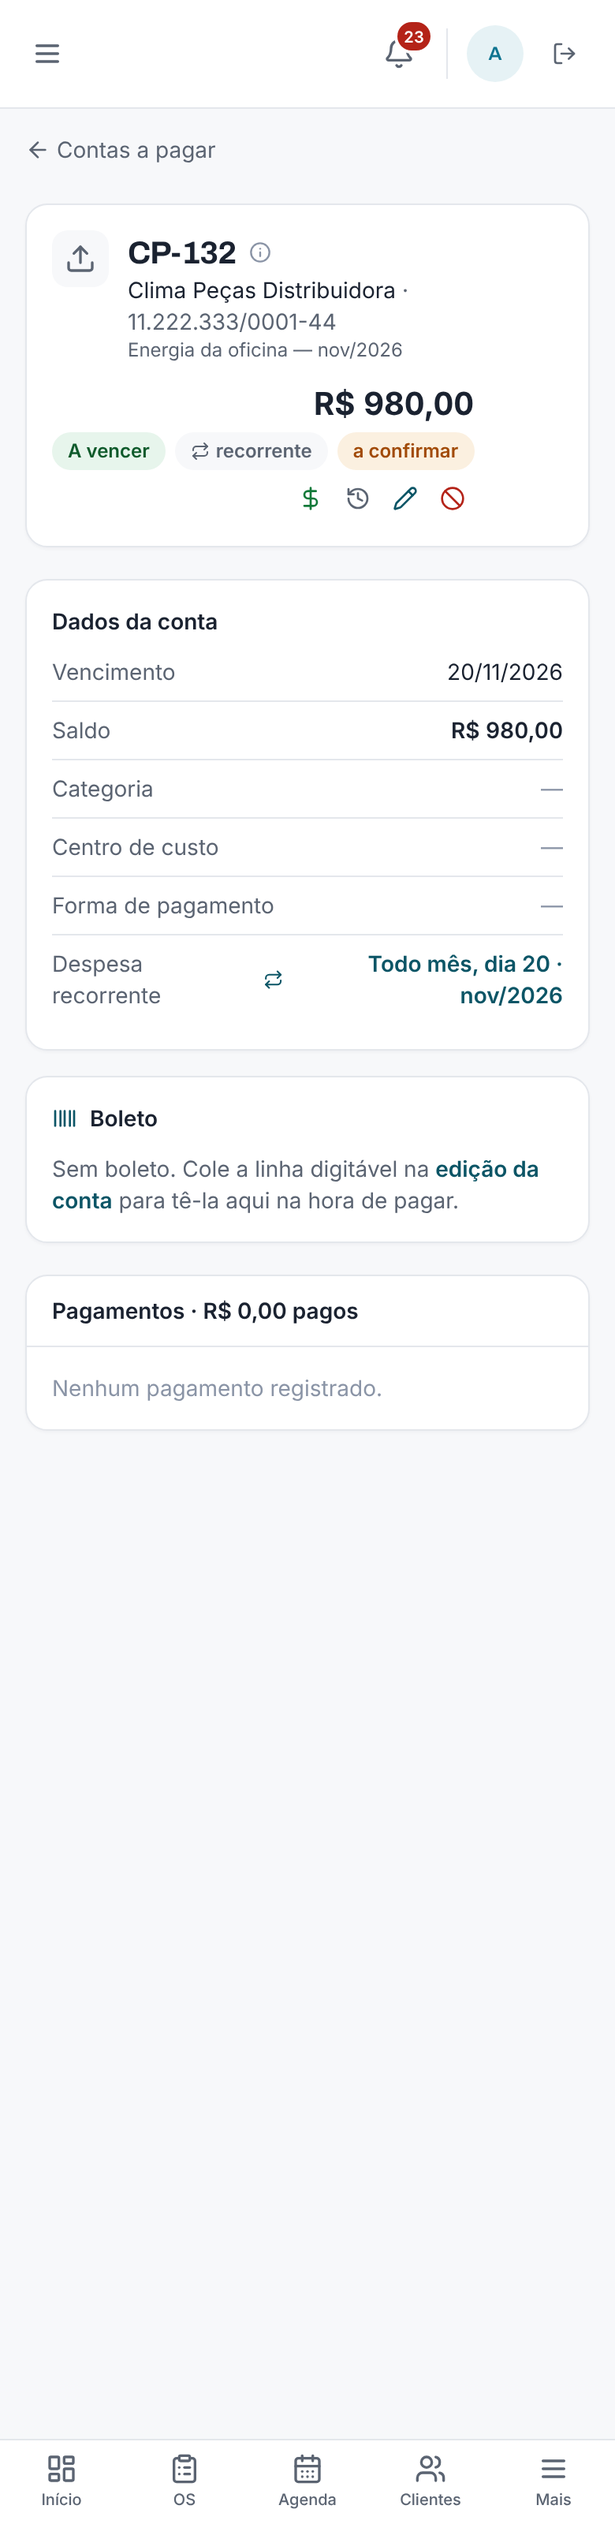
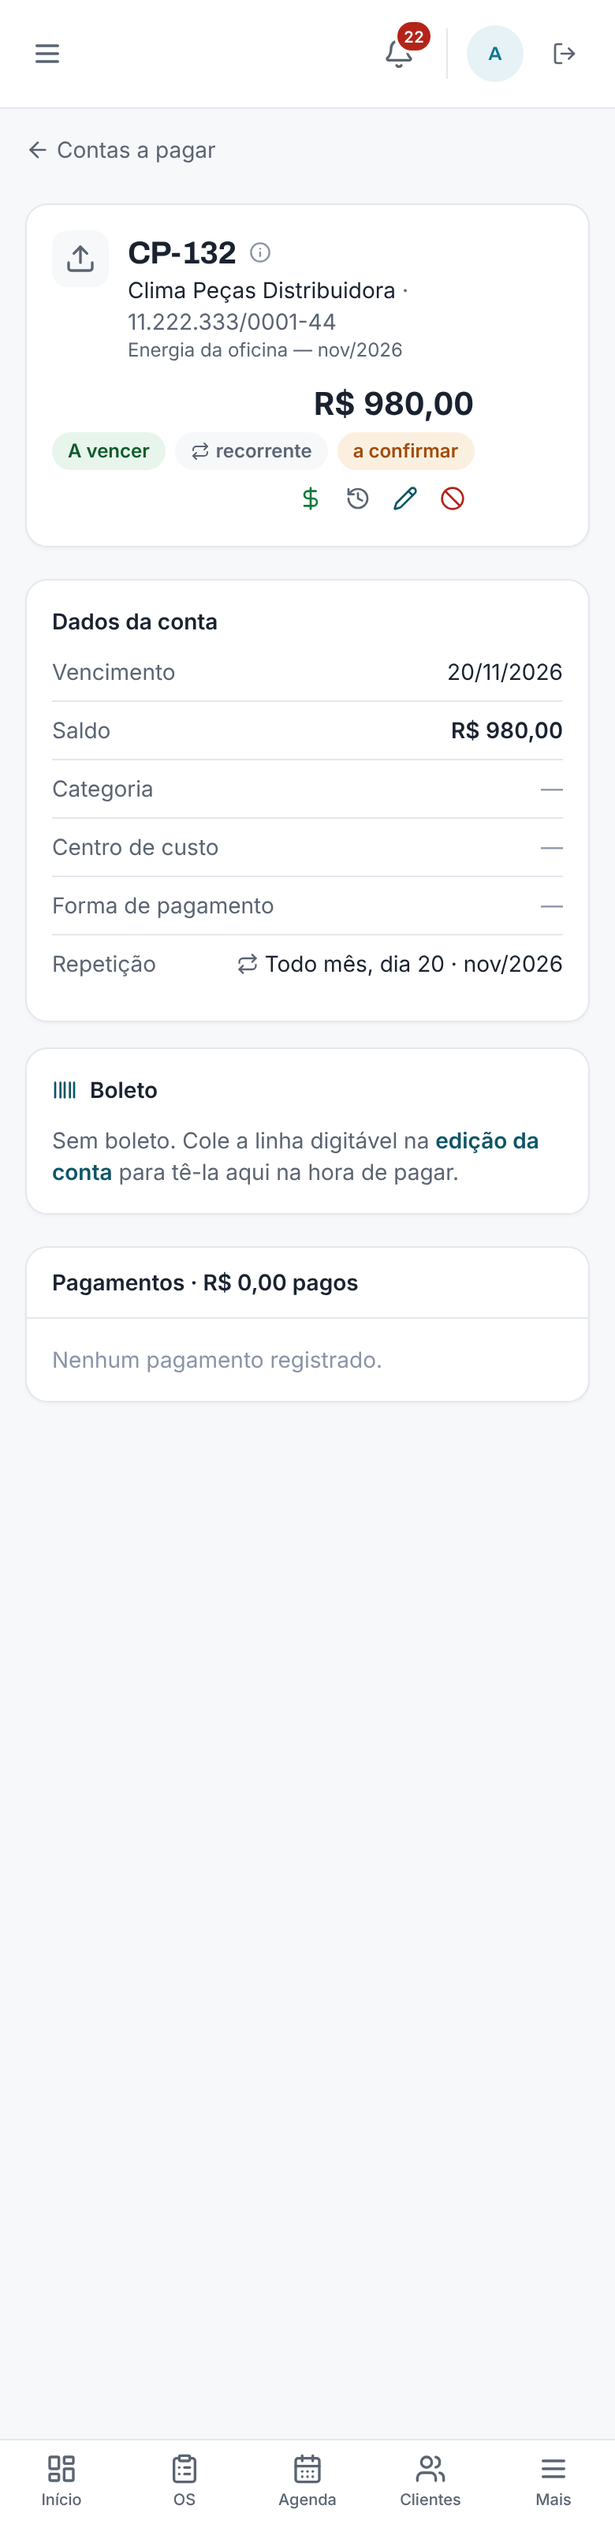
Recorrentes P2: prints, doc e os consertos que a rodada de mutacao achou
- a previa cortava no horizonte: uma regra de 24 ocorrencias mostrava 13. O teto da previa passa a ser o termino da propria regra (data ou numero) e so cai no horizonte rolante quando nao ha termino.

- seta unicode num comentario batia na guarda de emoji do design system (era a quebra do shard 2 do CI).

- podeMexer no menu da conta foi de 9 para 8 com a saida do atalho para a tela de regras (quebra do shard 3).

- teste novo: Cobrar sempre no e 1o vencimento sao a mesma verdade e andam juntos.

- prints refeitos para o desenho novo; os da tela de regras removida sairam.

Claude-Session: https://claude.ai/code/session_01NogQSnn1DhMU16avoGcmWJ

Changed region(s): [[0.0615, 0.375, 0.8923, 0.5625], [0.5538, 0.375, 0.9231, 0.4062], [0.4308, 0.375, 0.4923, 0.4062]]

diff --git a/tests/unit/padronizacao-leva8a.test.ts b/tests/unit/padronizacao-leva8a.test.ts
@@ -67,9 +67,9 @@ describe("prioridade 1: o que mexe em dinheiro só aparece para quem pode", () =
     expect(src).toContain('import { usePermissoes } from "@/components/providers/permissoes-provider";');
     expect(src).toContain('const podeMexer = usePermissoes().pode("financeiro", "fluxoCaixa");');
     // os itens do ⋮ e os botões da ficha, todos atrás da permissão: pagar, editar e cancelar
-    // (3 + 3) mais os da despesa recorrente — "tornar recorrente" no menu e na ficha e
-    // "ver a despesa recorrente" no menu (3)
-    expect(src.match(/\{podeMexer &&/g) ?? []).toHaveLength(9);
+    // (3 + 3) mais "Repetir lançamento" no menu e na ficha (2). Eram 9 enquanto existia o atalho
+    // "ver a despesa recorrente": a recorrência passou a morar dentro da conta, não há tela à parte.
+    expect(src.match(/\{podeMexer &&/g) ?? []).toHaveLength(8);
     // histórico e "ver detalhes" são leitura: continuam para quem só visualiza
     expect(src).toMatch(/<ItemMenu icone=\{Eye\}/);
     expect(src).toMatch(/data-historico-pagamentos/);

diff --git a/tests/unit/conta-pagar-recorrentes-telas.test.ts b/tests/unit/conta-pagar-recorrentes-telas.test.ts
@@ -166,6 +166,10 @@ describe("guardas das telas da despesa recorrente", () => {
     expect(previaDaRegra({ ...base, fimAno: 2027, fimMes: 2, descricao: "Aluguel", valor: 100 }, hoje)).toHaveLength(4);
     // sem término, o horizonte rolante: é o que o sistema abre de uma vez
     expect(previaDaRegra({ ...base, descricao: "Aluguel", valor: 100 }, hoje)).toHaveLength(13);
+    // com término, TODAS — mesmo as que passam do horizonte (o Zé pediu a regra inteira)
+    expect(previaDaRegra({ ...base, ocorrencias: 24, descricao: "Aluguel", valor: 100 }, hoje)).toHaveLength(24);
+    expect(previaDaRegra({ ...base, fimAno: 2029, fimMes: 4, descricao: "Aluguel", valor: 100 }, hoje)).toHaveLength(30);
+    expect(previaDaRegra({ ...base, passoMeses: 3, ocorrencias: 8, descricao: "Aluguel", valor: 100 }, hoje)).toHaveLength(8);
     const primeira = previaDaRegra({ ...base, ocorrencias: 2, descricao: "Aluguel", valor: 100 }, hoje)[0];
     expect(primeira.descricao).toBe("Aluguel — nov/2026");
     expect(primeira.valor).toBe(100);

diff --git a/lib/financeiro/conta-pagar-recorrencia.ts b/lib/financeiro/conta-pagar-recorrencia.ts
@@ -258,7 +258,14 @@ export function previaDaRegra(
   hoje: Competencia,
   meses = 12,
 ): PreviaOcorrencia[] {
-  const limite = regra.fimAno && regra.fimMes ? { ano: regra.fimAno, mes: regra.fimMes } : horizonteRolante(hoje, meses);
+  // o teto da prévia é o término da PRÓPRIA regra quando ela tem um (data ou número de
+  // ocorrências); sem término, o horizonte rolante — que é o que o sistema abre de uma vez.
+  const passo = Math.max(1, Math.floor(regra.passoMeses || 1));
+  const porData = regra.fimAno && regra.fimMes ? { ano: regra.fimAno, mes: regra.fimMes } : null;
+  const porContagem = regra.ocorrencias && regra.ocorrencias > 0
+    ? somarMeses(regra.inicioAno, regra.inicioMes, passo * Math.floor(regra.ocorrencias))
+    : null;
+  const limite = porData ?? porContagem ?? horizonteRolante(hoje, meses);
   return competenciasDaRegra({ ...regra, situacao: "ATIVA" }, limite)
     .filter((c) => !competenciaAntes(c, hoje))
     .map((c) => ({

diff --git a/tests/unit/conta-pagar-recorrentes-ui.test.ts b/tests/unit/conta-pagar-recorrentes-ui.test.ts
@@ -164,6 +164,17 @@ describe("Nova conta a pagar: 'Repetir lançamento?'", () => {
     expect(primeira.replace(/\u00a0/g, " ")).toContain("R$ 2.500,00");
   });
 
+  it("'Cobrar sempre no' e '1º vencimento' são a mesma verdade: mexer num ajusta o outro", async () => {
+    await form();
+    await clicar("[data-toggle-recorrente] input");
+    // a data escolhida manda no dia da cobrança…
+    await digitar("input[aria-label='1\u00ba vencimento']", "15/03/2027");
+    expect(($("[data-dia-vencimento]") as HTMLSelectElement).value).toBe("15");
+    // …e o dia escolhido reescreve a data, no mesmo mês
+    await escolher("[data-dia-vencimento]", "5");
+    expect(($("input[aria-label='1\u00ba vencimento']") as HTMLInputElement).value).toBe("05/03/2027");
+  });
+
   it("'Personalizar…' abre a frequência e o término, e o que ele confirma vale", async () => {
     await form();
     await clicar("[data-toggle-recorrente] input");

diff --git a/components/financeiro/campos-recorrencia.tsx b/components/financeiro/campos-recorrencia.tsx
@@ -22,7 +22,7 @@ const AJUDA_PREVIA = "São as contas que vão nascer com esta regra. Sem data pa
 /** Ordinais do "Cobrar sempre no": 1º dia do mês … 31º dia do mês */
 const DIAS = Array.from({ length: MAX_DIA - MIN_DIA + 1 }, (_, i) => i + MIN_DIA);
 
-/** dd/mm/aaaa ↔ as partes da competência (o "1º vencimento" manda no início da regra) */
+/** dd/mm/aaaa e as partes da competência (o "1º vencimento" manda no início da regra) */
 const partesData = (iso: string) => {
   const [a, m, d] = iso.split("-").map(Number);
   return { ano: a, mes: m, dia: d };

diff --git a/docs/contas-pagar-recorrentes-telas.md b/docs/contas-pagar-recorrentes-telas.md
@@ -1,8 +1,12 @@
-# Contas a pagar recorrentes — parte 2: as telas
+# Contas a pagar recorrentes — parte 2: a repetição dentro da conta
 
 A parte 1 (`docs/contas-pagar-recorrentes.md`) pôs a máquina embaixo: a regra, a geração com trava,
-o horizonte no cron, pausar/encerrar/pular e a edição com escopo. Esta parte é a **cara** disso: onde
-a pessoa cria, vê e mexe na despesa que se repete.
+o horizonte no cron, pausar/encerrar/pular e a edição com escopo. Esta parte é a **cara** disso.
+
+**O desenho mudou no meio do caminho.** A primeira versão tinha uma tela à parte, "Despesas
+recorrentes", com a lista das regras. Não é isso: a repetição é uma **propriedade do lançamento**,
+não um cadastro paralelo. Hoje não existe tela de regras — tudo acontece **dentro da conta**: liga
+ali, configura ali, vê a prévia ali, cancela ali.
 
 ---
 
@@ -10,96 +14,109 @@ a pessoa cria, vê e mexe na despesa que se repete.
 
 | Tela | O que era | O que é agora |
 | --- | --- | --- |
-| **Nova conta a pagar** (`/financeiro/contas-pagar/nova`) | fornecedor, descrição, valor, vencimento, boleto | ganhou a seção **Repetição** com o toggle "Repetir (recorrente)". Ligado, abre a regra (frequência, dia do vencimento, fim de semana, início, término, valor a confirmar), troca "Valor total" por **"Valor de cada ocorrência"** e esconde o que é de uma conta só (vencimento avulso, banco, pedido de compra, boleto). O favorecido passa a ser **fornecedor ou colaborador** |
-| **Editar conta a pagar** (`.../[id]/editar`) | formulário igual para toda conta | numa conta que veio de uma regra, abre o bloco **"Esta conta é de uma despesa recorrente"** com o alcance: *Só esta ocorrência* (padrão) × *Esta e as próximas em aberto*, cada um com a sua explicação. Com pagamento registrado não há escolha: a tela diz que o ajuste vale só para aquele mês |
-| **Contas a pagar** (lista) | sem sinal de recorrência | marca **recorrente** (link para a regra) ao lado da origem NF/Pedido, na coluna Descrição, e **a confirmar** embaixo do valor; as duas também no cartão do celular; botão **Despesas recorrentes** no topo; filtro **Origem → Despesa recorrente** (e "Manual" passou a excluir as recorrentes) |
-| **Conta a pagar** (detalhe) | — | os dois selos ao lado do status (onde há espaço), a linha **Despesa recorrente** (frequência, dia e competência) nos dados, e **Tornar recorrente** nas ações de uma conta avulsa |
-| **Despesas recorrentes** (nova, `/financeiro/contas-pagar/recorrentes`) | não existia | a lista das **regras** na TabelaPro (descrição, favorecido, repetição, próxima, término, categoria, contas, situação, valor), cartões no celular, faixa com "N ativas · N pausadas · Em aberto já gerado: R$ X", ⓘ do módulo, e por regra: ver ocorrências, editar, gerar o que falta, pausar/retomar, encerrar |
+| **Nova conta a pagar** (`/financeiro/contas-pagar/nova`) | fornecedor, descrição, valor, vencimento, boleto | ganhou o toggle **"Repetir lançamento?"**. Ligado, abre **Configurações de repetição** (um seletor com os atalhos de sempre + "Personalizar…"), a **Condição de pagamento** da repetição ("Cobrar sempre no" + "1º vencimento" + fim de semana), o "valor a confirmar" e a prévia **Recorrências previstas**. Troca "Valor total" por **"Valor de cada ocorrência"** e esconde o que é de uma conta só (vencimento avulso, banco, pedido de compra, boleto). O favorecido passa a ser **fornecedor ou colaborador** |
+| **Conta a pagar** (detalhe) | — | **Repetir lançamento** nas ações de uma conta avulsa: abre o mesmo bloco de configuração e a conta passa a ser a primeira ocorrência (sem recriar nada). Numa conta que já se repete, a linha **Repetição** nos dados (intervalo, dia e competência) e o selo *recorrente* — texto, não link: não há tela para onde ir |
+| **Editar conta a pagar** (`.../[id]/editar`) | formulário igual para toda conta | numa conta que veio de uma repetição, abre o bloco **"Esta conta é de uma despesa recorrente"** com o alcance: *Só esta ocorrência* (padrão) × *Esta e as próximas em aberto*. Com pagamento registrado não há escolha: a tela diz que o ajuste vale só para aquele mês |
+| **Cancelar conta** (ação) | confirmação da casa, "tem certeza" | numa conta repetida a pergunta não é se, é **até onde**: *Só esta ocorrência* (a repetição continua) × *Esta e as próximas em aberto* (encerra a repetição). Em nenhum dos dois alguma conta é apagada |
+| **Contas a pagar** (lista) | sem sinal de repetição | marca **recorrente** ao lado da origem NF/Pedido, na coluna Descrição, e **a confirmar** embaixo do valor; as duas também no cartão do celular; filtro **Origem → Despesa recorrente** (e "Manual" passou a excluir as recorrentes) |
+| ~~**Despesas recorrentes**~~ (`/financeiro/contas-pagar/recorrentes`) | a primeira versão desta leva criou a tela | **removida.** A rota, a view e o formulário de regra saíram; nada no sistema aponta para lá |
 
 Prints (desktop e celular) em `docs/prints/contas-pagar-recorrentes/`, `antes-*` e `depois-*`.
-A tela de regras não tem "antes": `antes-recorrentes*.png` é o 404 de hoje, de propósito — é a prova
-de que a rota não existia.
 
 ---
 
+## Como a repetição se configura
+
+**Configurações de repetição** é um seletor, não cinco campos soltos. Cada opção é a regra inteira
+(intervalo + término) de uma vez:
+
+| Opção | Intervalo | Termina |
+| --- | --- | --- |
+| Mensal: todo mês, sem data para terminar | 1 mês | nunca (horizonte rolante) |
+| Mensal: todo mês, 12 vezes | 1 mês | 12 ocorrências |
+| Mensal: todo mês, 24 vezes | 1 mês | 24 ocorrências |
+| Trimestral: a cada 3 meses, sem data para terminar | 3 meses | nunca |
+| Anual: todo ano, sem data para terminar | 12 meses | nunca |
+| **Personalizar…** | 1 a 60 meses | por número de ocorrências, por mês/ano, ou sem data |
+
+"Personalizar…" abre um diálogo com **Frequência da recorrência** ("Repetir a cada N meses") e
+**Término da recorrência** (as três opções). Confirmado, o seletor passa a mostrar a regra montada
+em texto — *"A cada 2 meses, 6 vezes"* — e não some: a regra escolhida continua visível.
+
+**Condição de pagamento** tem "Cobrar sempre no" (1º a 31º dia do mês) e "1º vencimento". Os dois
+são a mesma verdade vista de dois ângulos e andam juntos: mudar a data muda o dia, e mudar o dia
+muda a data. Quem pensa "todo dia 10" usa o primeiro; quem pensa "começa em 10/12" usa o segundo.
+
+**Recorrências previstas** é a prévia, recolhida por padrão, com a contagem no título. Aberta,
+mostra uma linha por ocorrência — vencimento (já com o ajuste de fim de semana aplicado), o
+lançamento com a competência no nome e o valor. É a prova, **antes de salvar**, de que a regra faz o
+que a pessoa quer. Sem data para terminar, ela mostra o horizonte que o sistema abre de uma vez
+(13 meses); com término, mostra **todas** as ocorrências.
+
 ## Padrão da casa
 
-- **Listagem é TabelaPro**: a tela nova usa o mesmo componente das outras listas (colunas
-  redimensionáveis, menu "Colunas", preferência por usuário). Como a `barra` da TabelaPro é só do
-  desktop, os números aparecem **também** no topo da lista de cartões do celular — a mesma
-  informação nas duas versões (tem teste e mutação para isso).
-- **Sucesso é toast; erro fica na tela.** Criar a regra, pausar, encerrar, gerar e pular avisam por
-  toast, dizendo o número: *"Despesa pausada. 2 ocorrências futuras canceladas."* O erro de
-  validação do formulário fica no formulário, onde a pessoa está olhando.
-- **Instrução no ⓘ**, não solta na tela: o que é despesa recorrente, o que o término "sem data"
-  significa, e por que conta paga não muda.
-- **Confirmação da casa** em encerrar e em pular, com o que acontece dito antes: *"A regra para de
-  gerar e as ocorrências futuras ainda em aberto são canceladas. O histórico fica."*
-- **Plural escrito**: "1 ocorrência futura cancelada" × "2 ocorrências futuras canceladas".
-- **Permissão nos botões**: quem só tem `Financeiro › visualizar` abre a tela e vê tudo, mas não vê
-  nenhuma ação de dinheiro — nem "Nova despesa recorrente", nem pausar, encerrar, editar, gerar ou
-  pular. O servidor recusa igual (403), e **a tela não muda** quando ele recusa: o motivo vem em
-  toast de erro e a regra continua como estava.
+- **Sucesso é toast; erro fica na tela.** Criar, repetir e cancelar avisam por toast, dizendo o
+  número: *"Lançamento repetido criado: 13 contas abertas."*, *"Conta 0042 cancelada e repetição
+  encerrada."* O erro de validação fica no formulário, onde a pessoa está olhando.
+- **Instrução no ⓘ**, não solta na tela: o que o toggle faz, e o que a prévia mostra quando a regra
+  não tem data para terminar.
+- **A confirmação da casa cede lugar à escolha de alcance** no cancelamento de uma conta repetida:
+  perguntar "tem certeza" duas vezes é pior do que perguntar "até onde" uma vez.
+- **Permissão nos botões**: sem `Financeiro › fluxo de caixa` não aparece "Repetir lançamento", nem
+  editar, nem cancelar. O servidor recusa igual (403) e **a tela não muda** quando ele recusa: o
+  motivo vem em toast de erro.
+- **Plural escrito**: "1 conta aberta" × "13 contas abertas".
 
 ## Dinheiro é razão (na tela também)
 
-- **Conta paga não muda**: na edição ela não ganha a escolha de alcance; nas ocorrências ela nem
-  oferece o botão de pular — mostra "não muda", com o motivo no `title`.
-- **Tornar recorrente não recria nada**: o diálogo diz, antes de confirmar, que a conta continua com
-  o mesmo número, os mesmos pagamentos e o mesmo histórico, e passa a ser a primeira ocorrência.
-- **Encerrar é encerrar, não apagar**: o texto da confirmação diz isso, e a regra encerrada continua
-  na lista, com a situação e o motivo.
+- **Conta paga não muda**: na edição ela não ganha a escolha de alcance; "esta e as próximas"
+  encerra a repetição mas não mexe no que já foi pago.
+- **Repetir lançamento não recria nada**: o diálogo diz, antes de confirmar, que a conta continua
+  com o mesmo número, os mesmos pagamentos e o mesmo histórico, e passa a ser a primeira ocorrência.
+- **Cancelar é cancelar, não apagar**: as duas opções passam pela rota de pular (a conta fica
+  CANCELADA, no histórico); nenhuma chama DELETE.
 - O valor é o de **cada** ocorrência: a dica ao lado do campo diz "não multiplica".
 
 ---
 
 ## Decisões tomadas
 
-- **Sem item novo na barra lateral.** A tela de regras entra por um botão no topo de Contas a pagar
-  (e pelo selo "recorrente" de qualquer conta gerada). O menu da esquerda já está cheio; a despesa
-  recorrente é parte de Contas a pagar, não um módulo à parte.
-- **O toggle só existe na conta NOVA.** Uma conta que já existe vira recorrente pela ficha dela
-  ("Tornar recorrente"), que é o caminho que preserva número, pagamentos e histórico.
+- **Nada de tela de regras.** A repetição mora na conta. Sem lista de regras, sem item na barra
+  lateral, sem botão no topo: a conta a pagar continua sendo a única coisa que a pessoa abre.
+- **Sem "pausar" na tela.** O motor sabe pausar (parte 1), mas pela conta a decisão real é por
+  ocorrência (*cancelar só esta*) ou pelo futuro (*esta e as próximas*). Pausar virava um terceiro
+  estado para a pessoa controlar de um lugar que não existe mais.
+- **O "Personalizar…" é um diálogo, não campos abertos.** Fora dele, a tela mostra uma linha de
+  texto com a regra. Oito campos sempre à mostra para um caso que é quase sempre "todo mês" seria
+  poluição.
+- **A frequência não é guardada duas vezes.** A tela dirige o **passo em meses**; não existe um
+  campo "frequência" paralelo. (Existia, e foi exatamente ali que o passo se perdia: "a cada 3
+  meses" chegava ao servidor como 1.)
 - **O boleto fica fora da regra.** Boleto é de uma conta: cada ocorrência cola o seu quando chega.
-  (O boleto automático por ocorrência está na Fase 2 da parte 1.)
-- **"Manual" no filtro Origem passou a excluir as recorrentes.** Antes de existirem regras, "Manual"
-  significava "sem nota e sem pedido"; agora a conta de uma regra não é manual.
+- **"Manual" no filtro Origem passou a excluir as recorrentes.** Antes de existir repetição,
+  "Manual" significava "sem nota e sem pedido"; agora a conta de uma repetição não é manual.
 - **Os selos não viraram pílula na coluna Situação.** A primeira versão colocou "recorrente" e
   "a confirmar" ali, e o print mostrou o estrago: a coluna é estreita e as pílulas escreviam por
-  cima do valor. "recorrente" é **origem** (foi para a Descrição, junto do NF/Pedido, no mesmo
-  formato discreto) e "a confirmar" qualifica o **valor** (foi para baixo do número, onde o
-  "falta X" já mora).
-- **A tela de regras mostra 6 colunas por padrão** (~1040px, cabem numa tela de 1440 com a barra
-  lateral aberta). Com as 10 que ela tinha no primeiro desenho, Valor e Ações saíam da tela.
-  Termina, Categoria, Centro de custo e Contas ficam no menu "Colunas".
-- **Os campos da regra são um bloco só** (`components/financeiro/campos-recorrencia.tsx`), usado nos
-  três lugares que mexem nela: o toggle da conta nova, "Tornar recorrente" e a edição da regra. A
-  validação é a **mesma** do servidor (`validarRegra`), então a tela nunca pede o que a rota recusa.
+  cima do valor. "recorrente" é **origem** (foi para a Descrição, junto do NF/Pedido) e
+  "a confirmar" qualifica o **valor** (foi para baixo do número).
+- **Os campos da repetição são um bloco só** (`components/financeiro/campos-recorrencia.tsx`), usado
+  nos dois lugares que mexem nela: o toggle da conta nova e "Repetir lançamento" de uma conta que já
+  existe. A validação é a **mesma** do servidor (`validarRegra`), então a tela nunca pede o que a
+  rota recusa.
+
+## Perguntas em aberto (para o Zé decidir)
+
+1. **"Data de criação" na prévia.** No sistema de hoje a prévia tem essa coluna porque lá cada
+   lançamento nasce no mês dele. Aqui o sistema abre todas de uma vez (horizonte rolante), então a
+   coluna diria sempre "hoje" — mentira útil para ninguém. Ficou de fora. Se a ideia é criar mês a
+   mês, isso é outra decisão (muda a geração, não a tela).
+2. **"Conta de pagamento" na repetição.** Contas a pagar não tem campo de conta bancária hoje
+   (quem tem é contas a receber). Entrar com ele aqui seria criar o campo no módulo inteiro, não só
+   na repetição. Não entrou.
 
 ## Testes
 
-| Arquivo | Testes | O que prova |
-| --- | --- | --- |
-| `tests/unit/conta-pagar-recorrentes-telas.test.ts` | 11 | as regras puras do formulário (início sugerido, término que manda só os campos dele, ida e volta de uma regra existente, a validação da rota recusando o que está errado) e as guardas: permissão em cada rota e em cada ação da tela, filtro no servidor, cron |
-| `tests/unit/conta-pagar-recorrentes-ui.test.ts` | 21 | num DOM de verdade: o toggle desligado não muda nada; ligado cria a REGRA; favorecido colaborador; o alcance na edição (e a ausência dele na conta paga); a tela de regras no desktop e no celular; quem só visualiza; a recusa do servidor que não muda a tela; a confirmação da casa; pular; tornar recorrente |
-
-**Rodada de mutação: 18 de 18 pegas** (15 na primeira rodada + 3 nos defeitos que os prints acharam) — o toggle decorativo, o alcance que não vai (ou que vai numa
-conta paga), o término mandando os dois campos, a frequência nomeada usando o passo digitado, o
-início que ignora o dia que já passou, a ação sem permissão na tela, a recusa do servidor mudando a
-tela, encerrar sem confirmação, a conta paga voltando a oferecer pular, os números saindo do celular,
-"tornar recorrente" numa conta que já é de uma regra, o filtro "Manual" voltando a incluir as
-recorrentes, a tela sem permissão para abrir e a rota de tornar recorrente aceitando quem só vê —
-mais o selo voltando a ser link dentro do cartão (âncora dentro de âncora), o selo do desktop
-deixando de levar para a regra e o cartão do celular deixando de abrir as ocorrências.
-
-## O que os prints pegaram (e os testes não)
-
-Três defeitos reais só apareceram no navegador de verdade:
-
-1. **Âncora dentro de âncora**: o selo "recorrente" era um link dentro do link do cartão do celular.
-   `<a>` dentro de `<a>` é HTML inválido; o navegador reorganiza a árvore e a **hidratação do React
-   quebrava** na lista de contas a pagar. Hoje o selo do cartão é texto, e só o do desktop é link.
-2. **Selos estourando a coluna Situação**, escrevendo por cima do valor (acima).
-3. **A tela de regras passando da largura**, empurrando Valor e Ações para fora (acima).
-
-Os três viraram teste e entraram na rodada de mutação.
+| Arquivo | O que prova |
+| --- | --- |
+| `tests/unit/conta-pagar-recorrentes-telas.test.ts` | as regras puras do formulário (início sugerido, atalhos que escrevem passo + término, ida e volta de uma regra existente, o texto da repetição, a prévia com todas as ocorrências, a validação da rota) e as guardas: a tela de regras não existe mais, nada aponta para a rota removida, o cancelamento com alcance encerra a regra pela rota de ação e cancela pela de pular (nunca DELETE), permissão em cada rota, filtro no servidor, cron |
+| `tests/unit/conta-pagar-recorrentes-ui.test.ts` | num DOM de verdade: o toggle desligado não muda nada; ligado cria a repetição; a prévia com as contas que vão nascer; o "Personalizar…" valendo de verdade; favorecido colaborador; o alcance na edição (e a ausência dele na conta paga); o selo nas duas versões da lista; quem só visualiza; a recusa do servidor que não muda a tela |
